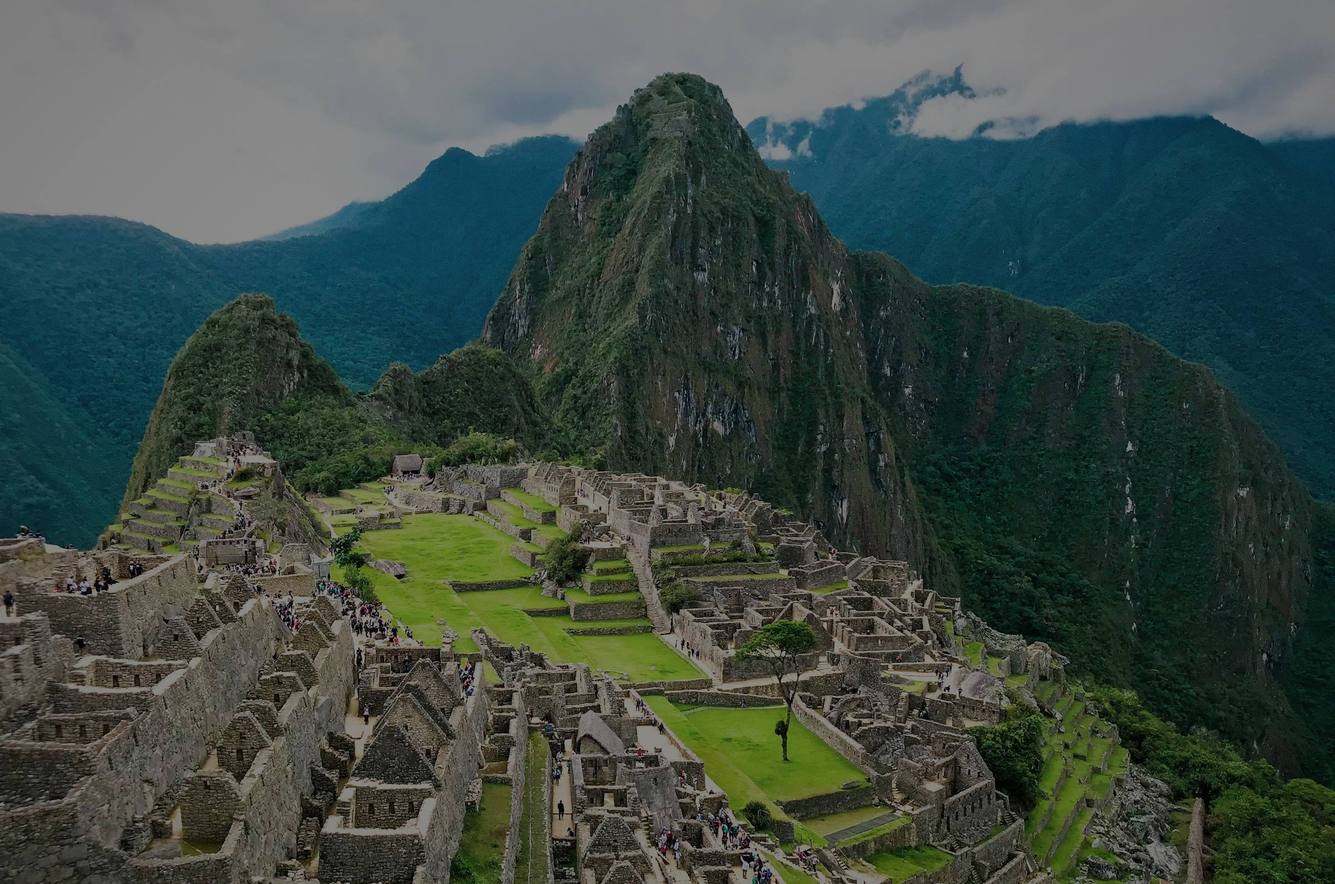
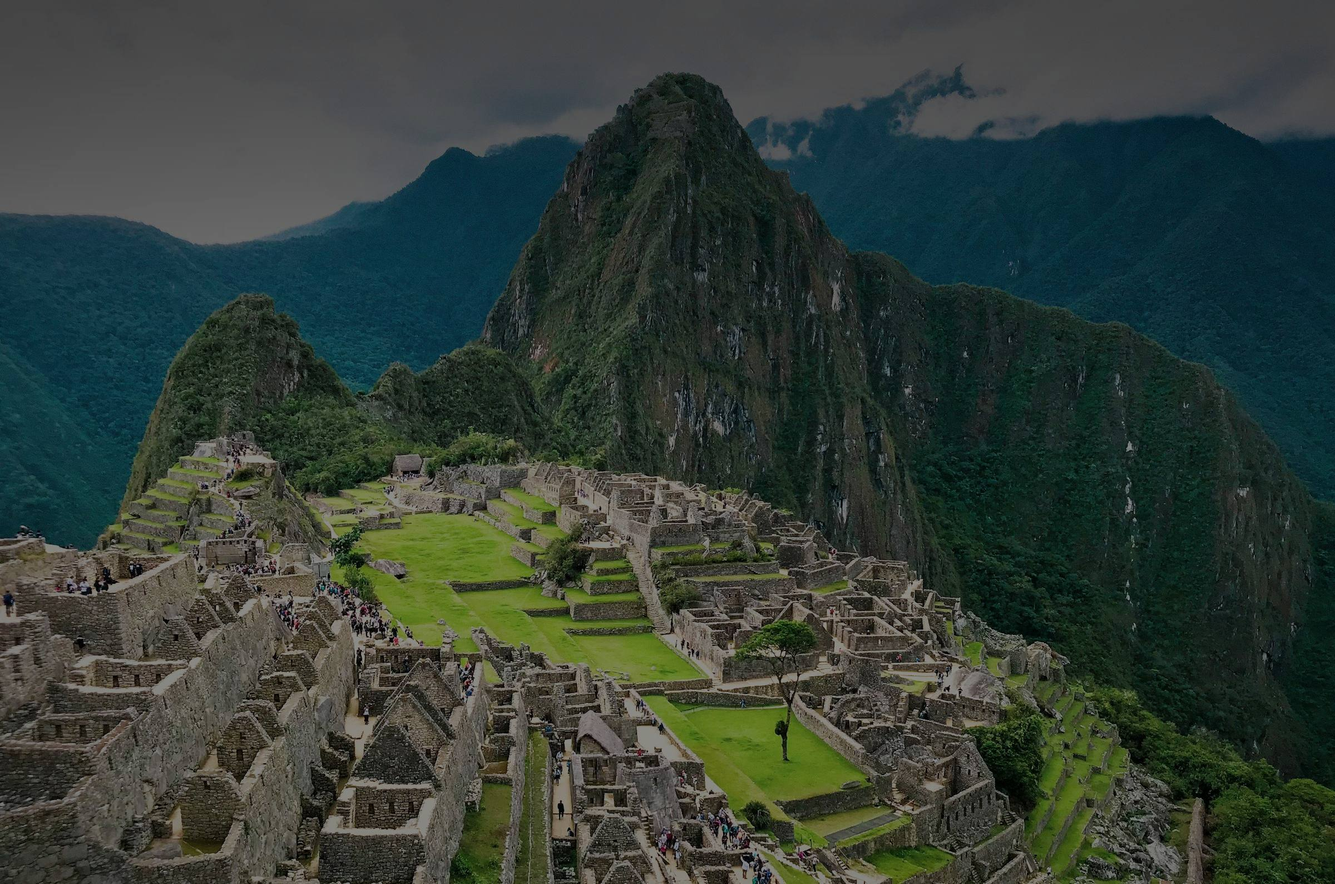
Go live with classic green Machu Picchu; darken without graying
Dimming now uses a pure black overlay (a hue-preserving multiply)
instead of a gray-olive one, and the photo's white clouds are burned
down in the image, so the text column only needs 49% darkening and
keeps the photo's greens. Cards and notes use plain translucent black.
All previews recomputed with the same method; golden haze moves into
the gallery as an option.

Claude-Session: https://claude.ai/code/session_01AdrmUapFJKoWJwuJeWuEcQ

Changed region(s): [[0.0, 0.0, 1.0, 0.2774]]

diff --git a/index.html b/index.html
@@ -29,10 +29,10 @@
     -webkit-font-smoothing:antialiased;
   }
   :root{
-    --bg-img:url("bg-machu-picchu.jpg");
+    --bg-img:url("bg-classic.jpg");
     --bg-pos:center 35%;
-    --dim-text:0.68;   /* behind the text column: minimum that keeps worst-case WCAG contrast */
-    --dim-edge:0.15;   /* outer margins: photo stays bright */
+    --dim-text:0.49;   /* black overlay behind the text column: tested minimum for worst-case WCAG contrast, +0.02 */
+    --dim-edge:0.08;   /* outer margins: photo stays bright */
     --fallback-tint:0.35;
   }
   html,body{ overflow-x:clip; }
@@ -43,12 +43,12 @@
     z-index:-1;
     background:
       linear-gradient(90deg,
-        rgba(27,29,24,var(--dim-edge)) 0,
-        rgba(27,29,24,var(--dim-edge)) calc(50% - 640px),
-        rgba(27,29,24,var(--dim-text)) calc(50% - 460px),
-        rgba(27,29,24,var(--dim-text)) calc(50% + 460px),
-        rgba(27,29,24,var(--dim-edge)) calc(50% + 640px),
-        rgba(27,29,24,var(--dim-edge)) 100%),
+        rgba(0,0,0,var(--dim-edge)) 0,
+        rgba(0,0,0,var(--dim-edge)) calc(50% - 640px),
+        rgba(0,0,0,var(--dim-text)) calc(50% - 460px),
+        rgba(0,0,0,var(--dim-text)) calc(50% + 460px),
+        rgba(0,0,0,var(--dim-edge)) calc(50% + 640px),
+        rgba(0,0,0,var(--dim-edge)) 100%),
       var(--bg-img) var(--bg-pos) / cover no-repeat;
   }
   .wrap{
@@ -64,8 +64,8 @@
     position:absolute;
     inset:0 -60px;
     z-index:-1;
-    -webkit-backdrop-filter:blur(20px);
-    backdrop-filter:blur(20px);
+    -webkit-backdrop-filter:blur(20px) saturate(1.2);
+    backdrop-filter:blur(20px) saturate(1.2);
     -webkit-mask-image:linear-gradient(90deg, transparent, #000 60px, #000 calc(100% - 60px), transparent);
     mask-image:linear-gradient(90deg, transparent, #000 60px, #000 calc(100% - 60px), transparent);
   }
@@ -122,7 +122,7 @@
     gap:12px;
   }
   .overview-card{
-    background:rgba(30,26,17,0.28);
+    background:rgba(0,0,0,0.22);
     border:1px solid rgba(201,162,74,0.18);
     border-radius:8px;
     padding:16px 14px;
@@ -286,7 +286,7 @@
   }
 
   .swing-note{
-    background:rgba(30,26,17,0.6);
+    background:rgba(0,0,0,0.45);
     border:1px solid var(--alert);
     border-radius:6px;
     padding:14px 16px;
@@ -387,7 +387,7 @@
     gap:5px 14px;
     margin:8px 0 0;
     padding:10px 12px;
-    background:rgba(30,26,17,0.35);
+    background:rgba(0,0,0,0.30);
     border:1px solid rgba(201,162,74,0.18);
     border-radius:8px;
     font-size:13px;
@@ -411,16 +411,16 @@
    dim = tested minimum dimming behind the text (+0.02); tint = fallback for browsers without backdrop blur. */
 (function(){
   var B={
-    moody:{name:"Machu Picchu at dusk",dim:0.31,tint:0.6},
-    dramatic:{name:"Huayna Picchu, dark mountains",dim:0.72,tint:0.35},
-    lima:{name:"Lima, Miraflores cliffs at sunset",dim:0.70,tint:0.35},
-    vivid:{name:"Machu Picchu, blue sky and clouds",dim:0.72,tint:0.35},
-    classic:{name:"Machu Picchu, classic green",dim:0.72,tint:0.35}
+    golden:{file:"bg-machu-picchu.jpg",name:"Machu Picchu, golden haze",dim:0.53,tint:0.35},
+    moody:{file:"bg-moody.jpg",name:"Machu Picchu at dusk",dim:0.20,tint:0.6},
+    dramatic:{file:"bg-dramatic.jpg",name:"Huayna Picchu, dark mountains",dim:0.58,tint:0.35},
+    lima:{file:"bg-lima.jpg",name:"Lima, Miraflores cliffs at sunset",dim:0.56,tint:0.35},
+    vivid:{file:"bg-vivid.jpg",name:"Machu Picchu, blue sky and clouds",dim:0.58,tint:0.35}
   };
   var key=new URLSearchParams(location.search).get("bg");
   var b=B[key]; if(!b) return;
   var st=document.documentElement.style;
-  st.setProperty("--bg-img",'url("bg-'+key+'.jpg")');
+  st.setProperty("--bg-img",'url("'+b.file+'")');
   st.setProperty("--dim-text",b.dim);
   st.setProperty("--fallback-tint",b.tint);
   document.addEventListener("DOMContentLoaded",function(){
@@ -1168,7 +1168,7 @@
   </div>
 
   <footer>
-    Built from the group's live planning — flight times, ticket-line results, and train schedules should be confirmed against actual bookings as they're locked in. Background photo of Machu Picchu via <a href="https://unsplash.com/photos/gQzlCU9_ItA" target="_blank" rel="noopener" style="color:inherit">Unsplash</a>.
+    Built from the group's live planning — flight times, ticket-line results, and train schedules should be confirmed against actual bookings as they're locked in. Background photo of Machu Picchu via <a href="https://unsplash.com/photos/rFESpq5MMTg" target="_blank" rel="noopener" style="color:inherit">Unsplash</a>.
   </footer>
 
 </div>

diff --git a/peru-boys-trip-itinerary_V3.html b/peru-boys-trip-itinerary_V3.html
@@ -29,10 +29,10 @@
     -webkit-font-smoothing:antialiased;
   }
   :root{
-    --bg-img:url("bg-machu-picchu.jpg");
+    --bg-img:url("bg-classic.jpg");
     --bg-pos:center 35%;
-    --dim-text:0.68;   /* behind the text column: minimum that keeps worst-case WCAG contrast */
-    --dim-edge:0.15;   /* outer margins: photo stays bright */
+    --dim-text:0.49;   /* black overlay behind the text column: tested minimum for worst-case WCAG contrast, +0.02 */
+    --dim-edge:0.08;   /* outer margins: photo stays bright */
     --fallback-tint:0.35;
   }
   html,body{ overflow-x:clip; }
@@ -43,12 +43,12 @@
     z-index:-1;
     background:
       linear-gradient(90deg,
-        rgba(27,29,24,var(--dim-edge)) 0,
-        rgba(27,29,24,var(--dim-edge)) calc(50% - 640px),
-        rgba(27,29,24,var(--dim-text)) calc(50% - 460px),
-        rgba(27,29,24,var(--dim-text)) calc(50% + 460px),
-        rgba(27,29,24,var(--dim-edge)) calc(50% + 640px),
-        rgba(27,29,24,var(--dim-edge)) 100%),
+        rgba(0,0,0,var(--dim-edge)) 0,
+        rgba(0,0,0,var(--dim-edge)) calc(50% - 640px),
+        rgba(0,0,0,var(--dim-text)) calc(50% - 460px),
+        rgba(0,0,0,var(--dim-text)) calc(50% + 460px),
+        rgba(0,0,0,var(--dim-edge)) calc(50% + 640px),
+        rgba(0,0,0,var(--dim-edge)) 100%),
       var(--bg-img) var(--bg-pos) / cover no-repeat;
   }
   .wrap{
@@ -64,8 +64,8 @@
     position:absolute;
     inset:0 -60px;
     z-index:-1;
-    -webkit-backdrop-filter:blur(20px);
-    backdrop-filter:blur(20px);
+    -webkit-backdrop-filter:blur(20px) saturate(1.2);
+    backdrop-filter:blur(20px) saturate(1.2);
     -webkit-mask-image:linear-gradient(90deg, transparent, #000 60px, #000 calc(100% - 60px), transparent);
     mask-image:linear-gradient(90deg, transparent, #000 60px, #000 calc(100% - 60px), transparent);
   }
@@ -122,7 +122,7 @@
     gap:12px;
   }
   .overview-card{
-    background:rgba(30,26,17,0.28);
+    background:rgba(0,0,0,0.22);
     border:1px solid rgba(201,162,74,0.18);
     border-radius:8px;
     padding:16px 14px;
@@ -286,7 +286,7 @@
   }
 
   .swing-note{
-    background:rgba(30,26,17,0.6);
+    background:rgba(0,0,0,0.45);
     border:1px solid var(--alert);
     border-radius:6px;
     padding:14px 16px;
@@ -387,7 +387,7 @@
     gap:5px 14px;
     margin:8px 0 0;
     padding:10px 12px;
-    background:rgba(30,26,17,0.35);
+    background:rgba(0,0,0,0.30);
     border:1px solid rgba(201,162,74,0.18);
     border-radius:8px;
     font-size:13px;
@@ -411,16 +411,16 @@
    dim = tested minimum dimming behind the text (+0.02); tint = fallback for browsers without backdrop blur. */
 (function(){
   var B={
-    moody:{name:"Machu Picchu at dusk",dim:0.31,tint:0.6},
-    dramatic:{name:"Huayna Picchu, dark mountains",dim:0.72,tint:0.35},
-    lima:{name:"Lima, Miraflores cliffs at sunset",dim:0.70,tint:0.35},
-    vivid:{name:"Machu Picchu, blue sky and clouds",dim:0.72,tint:0.35},
-    classic:{name:"Machu Picchu, classic green",dim:0.72,tint:0.35}
+    golden:{file:"bg-machu-picchu.jpg",name:"Machu Picchu, golden haze",dim:0.53,tint:0.35},
+    moody:{file:"bg-moody.jpg",name:"Machu Picchu at dusk",dim:0.20,tint:0.6},
+    dramatic:{file:"bg-dramatic.jpg",name:"Huayna Picchu, dark mountains",dim:0.58,tint:0.35},
+    lima:{file:"bg-lima.jpg",name:"Lima, Miraflores cliffs at sunset",dim:0.56,tint:0.35},
+    vivid:{file:"bg-vivid.jpg",name:"Machu Picchu, blue sky and clouds",dim:0.58,tint:0.35}
   };
   var key=new URLSearchParams(location.search).get("bg");
   var b=B[key]; if(!b) return;
   var st=document.documentElement.style;
-  st.setProperty("--bg-img",'url("bg-'+key+'.jpg")');
+  st.setProperty("--bg-img",'url("'+b.file+'")');
   st.setProperty("--dim-text",b.dim);
   st.setProperty("--fallback-tint",b.tint);
   document.addEventListener("DOMContentLoaded",function(){
@@ -1168,7 +1168,7 @@
   </div>
 
   <footer>
-    Built from the group's live planning — flight times, ticket-line results, and train schedules should be confirmed against actual bookings as they're locked in. Background photo of Machu Picchu via <a href="https://unsplash.com/photos/gQzlCU9_ItA" target="_blank" rel="noopener" style="color:inherit">Unsplash</a>.
+    Built from the group's live planning — flight times, ticket-line results, and train schedules should be confirmed against actual bookings as they're locked in. Background photo of Machu Picchu via <a href="https://unsplash.com/photos/rFESpq5MMTg" target="_blank" rel="noopener" style="color:inherit">Unsplash</a>.
   </footer>
 
 </div>

diff --git a/backgrounds.html b/backgrounds.html
@@ -32,8 +32,12 @@
     <p class="lede">Tap any photo to see the full itinerary with that background. These are previews only — the live page keeps its current background until one is picked. Each preview is dimmed just enough behind the text to stay readable, so photos with bright skies look darker there than photos without.</p>
     <div class="grid">
       <a class="card" href="index.html">
+        <img src="thumbs/bg-classic.jpg" alt="Classic green Machu Picchu">
+        <div class="meta"><h2>Machu Picchu, classic green <span class="live">Live now</span></h2><p>The current background: bright green terraces under Huayna Picchu, with the clouds toned down.</p></div>
+      </a>
+      <a class="card" href="index.html?bg=golden">
         <img src="thumbs/bg-machu-picchu.jpg" alt="Machu Picchu in golden haze">
-        <div class="meta"><h2>Machu Picchu, golden haze <span class="live">Live now</span></h2><p>The current background. Bright, backlit sky, so the text area needs heavy dimming.</p></div>
+        <div class="meta"><h2>Machu Picchu, golden haze</h2><p>The previous background. Bright, backlit sky, so the text area needs more dimming.</p></div>
       </a>
       <a class="card" href="index.html?bg=moody">
         <img src="thumbs/bg-moody.jpg" alt="Machu Picchu at dusk">
@@ -50,10 +54,6 @@
       <a class="card" href="index.html?bg=vivid">
         <img src="thumbs/bg-vivid.jpg" alt="Machu Picchu with blue sky and clouds">
         <div class="meta"><h2>Machu Picchu, blue sky</h2><p>The most colorful, with lots of sky and cloud.</p></div>
-      </a>
-      <a class="card" href="index.html?bg=classic">
-        <img src="thumbs/bg-classic.jpg" alt="Classic green Machu Picchu">
-        <div class="meta"><h2>Machu Picchu, classic green</h2><p>The postcard view: bright green terraces under Huayna Picchu.</p></div>
       </a>
     </div>
     <footer>All photos via <a href="https://unsplash.com" target="_blank" rel="noopener">Unsplash</a>. <a href="index.html">Back to the itinerary</a></footer>
